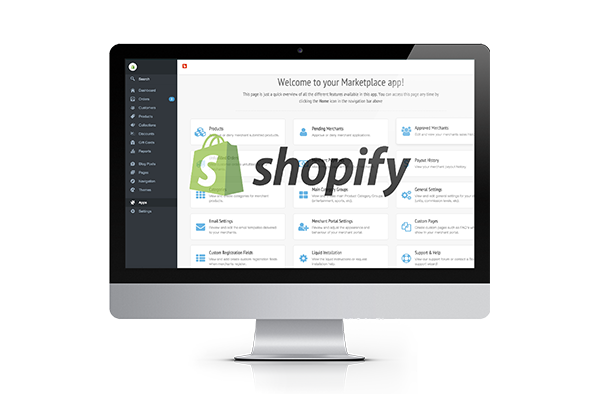
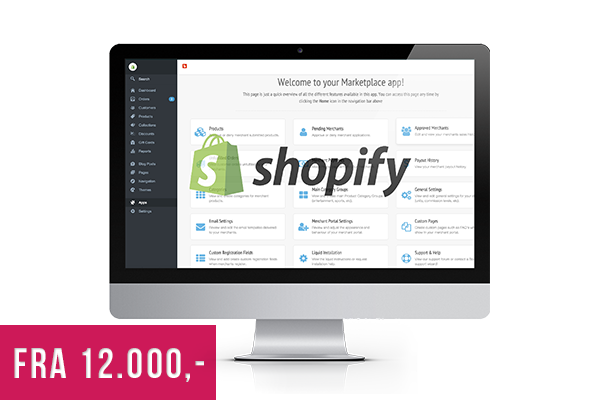
Prisbilleder opdateret

Changed region(s): [[0.0, 0.81, 0.36, 1.0]]

diff --git a/resources/views/prices/index.blade.php b/resources/views/prices/index.blade.php
@@ -79,7 +79,9 @@
         <div class="col-xs-8 col-sm-8 col-md-12 col-lg-12">
           <span class="title">Magento Webshop</span>
           <span class="description">Magento er bygget til webshops, hvilket også betyder at vi anbefaler det til mellemstore til store virksomheder. Magento kan sagtens fungere til små webshops, men grundet det komplicerede CMS-system, anbefales det til store virksomheder, som får glæde at den store funktionalitet som Magento tilbyder.</span>
-
+        </div>
+        <div class="price-button">
+          <button data-toggle="collapse" class="btn-price" data-target="#wordpress">Se fulde priser <i class="caret-icon fa fa-caret-down" aria-hidden="true"></i></button>
         </div>
       </div>
     </div>
@@ -91,15 +93,21 @@
           <span class="title">Shopify Webshop</span>
           <span class="description">Forskelligt fra de andre CMS-systemer skal der med Shopify betales et månedligt beløb for at bruge deres framework. Der er uendelige design – og opbygningsmuligheder, hvilket gør det perfekt til dig, som vil have din helt egen unikke webshop, og er villig til at betale mere for det.</span>
         </div>
+        <div class="price-button">
+          <button data-toggle="collapse" class="btn-price" data-target="#wordpress">Se fulde priser <i class="caret-icon fa fa-caret-down" aria-hidden="true"></i></button>
+        </div>
       </div>
     </div>
 
     <div class="col-xs-12 col-sm-12 col-md-4 col-lg-4">
       <div class="product-chooser-item">
-        <img src="{{asset('images/webshop/woocommerce.png')}}" class="img-rounded col-xs-4 col-sm-4 col-md-12 col-lg-12" alt="Mobile">
+        <img src="{{asset('images/webshop/woocommerce_priser.png')}}" class="img-rounded col-xs-4 col-sm-4 col-md-12 col-lg-12" alt="Mobile">
         <div class="col-xs-8 col-sm-8 col-md-12 col-lg-12">
           <span class="title">WooCommerce Webshop</span>
           <span class="description">Ved WooCommerce begiver vi os ud i den mere seriøse hjemmeside til iværksætteren med drømmen om en webshop. Ligesom WordPress er det utroligt let for dig at redigere i din hjemmeside, tilføje og redigere produkter med de nødvendige specifikationer, der passer til din webshop.</span>
+        </div>
+        <div class="price-button">
+          <button data-toggle="collapse" class="btn-price" data-target="#wordpress">Se fulde priser <i class="caret-icon fa fa-caret-down" aria-hidden="true"></i></button>
         </div>
       </div>
     </div>
